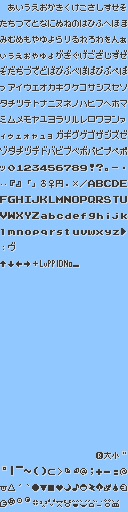
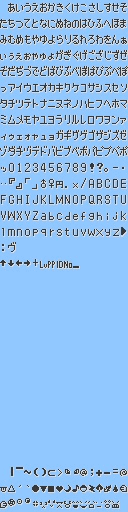
一旦保存

diff --git a/include/config/debug.h b/include/config/debug.h
@@ -5,11 +5,11 @@
 #define DEBUG_OVERWORLD_MENU            DISABLED_ON_RELEASE // Enables an overworld debug menu to change flags, variables, giving Pokemon and more, accessed by holding R and pressing START while in the overworld by default.
 #define DEBUG_OVERWORLD_HELD_KEYS       (R_BUTTON)          // The keys required to be held to open the debug menu.
 #define DEBUG_OVERWORLD_TRIGGER_EVENT   pressedStartButton  // The event that opens the menu when holding the key(s) defined in DEBUG_OVERWORLD_HELD_KEYS.
-#define DEBUG_OVERWORLD_IN_MENU         FALSE               // Replaces the overworld debug menu button combination with a start menu entry (above Pokedex).
+#define DEBUG_OVERWORLD_IN_MENU         TRUE               // Replaces the overworld debug menu button combination with a start menu entry (above Pokedex).
 
 // Battle Debug Menu
 #define DEBUG_BATTLE_MENU               DISABLED_ON_RELEASE // If set to TRUE, enables a debug menu to use in battles by pressing the Select button.
-#define DEBUG_AI_DELAY_TIMER            FALSE // If set to TRUE, displays the number of frames it takes for the AI to choose a move. Replaces the "What will PKMN do" text. Useful for devs or anyone who modifies the AI code and wants to see if it doesn't take too long to run.
+#define DEBUG_AI_DELAY_TIMER            TRUE // If set to TRUE, displays the number of frames it takes for the AI to choose a move. Replaces the "What will PKMN do" text. Useful for devs or anyone who modifies the AI code and wants to see if it doesn't take too long to run.
 
 // Pokemon Debug
 #define DEBUG_POKEMON_SPRITE_VISUALIZER DISABLED_ON_RELEASE // Enables a debug menu for Pokemon sprites and icons, accessed by pressing Select in the summary screen.